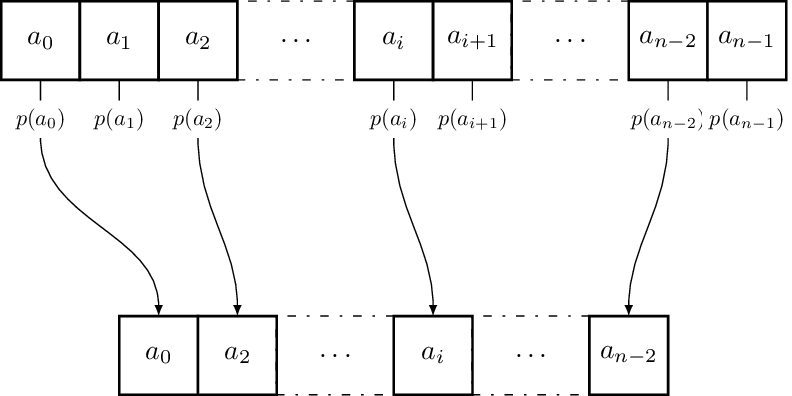
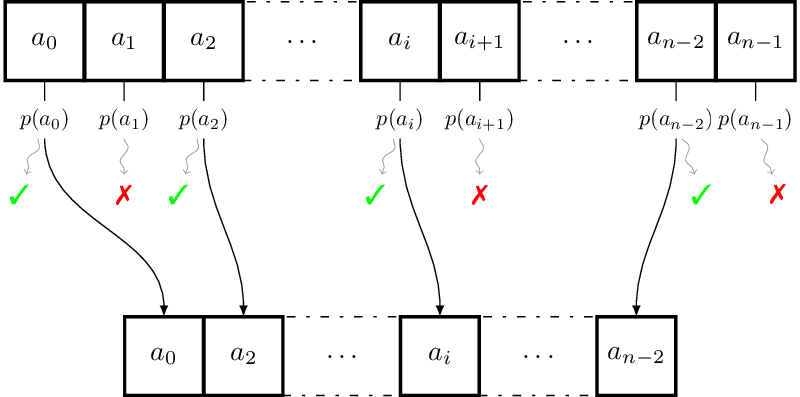
Added predicate results

diff --git a/src/images/_style.tex b/src/images/_style.tex
@@ -1,6 +1,9 @@
+\newcommand{\true}{\textcolor{green}{\ding{51}}}
+\newcommand{\false}{\textcolor{red}{\ding{55}}}
+
 \tikzstyle{cell} = [
   draw,
-  line width = 0.3mm,
+  line width = 0.4mm,
   minimum size = 1cm,
   outer sep = 0,
   fill = white
@@ -35,3 +38,5 @@
   out = 270,
   in = 90
 ]
+
+\tikzstyle{function result}=[pin edge={->, decorate, decoration={snake, amplitude=0.5mm}}]

diff --git a/src/images/filter.tex b/src/images/filter.tex
@@ -27,11 +27,10 @@
   2/\true/265,
   i/\true/265,
   i+1/\false/below,
-  n-2/\true/below,
+  n-2/\true/275,
   n-1/\false/275
 } {
-  % pin={[func result, pin position=\a] \b}
-  \node (pa\i) [below of = a\i, predicate] {$p(a_{\i})$};
+  \node (pa\i) [below of = a\i, predicate, pin={[function result, pin position=\a] \b}] {$p(a_{\i})$};
   \draw (a\i) -- (pa\i);
 }
     

diff --git a/src/images/_header.tex b/src/images/_header.tex
@@ -3,6 +3,11 @@
 \usepackage{tikz}
 \usetikzlibrary{matrix}
 
+\usetikzlibrary{decorations}
+\usetikzlibrary{decorations.pathmorphing}
+
+\usepackage{pifont} % for true and false symbols
+
 \begin{document}
   \begin{tikzpicture}
 
